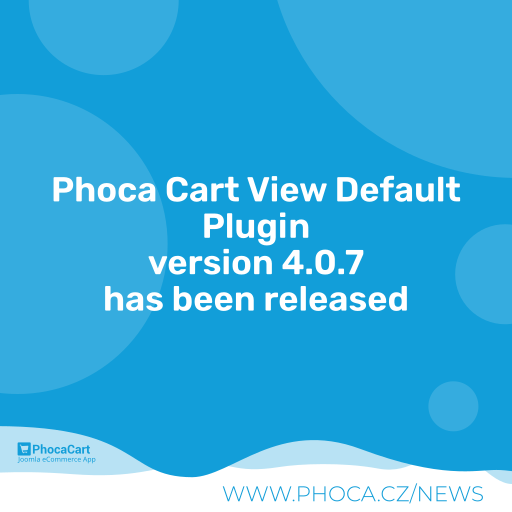
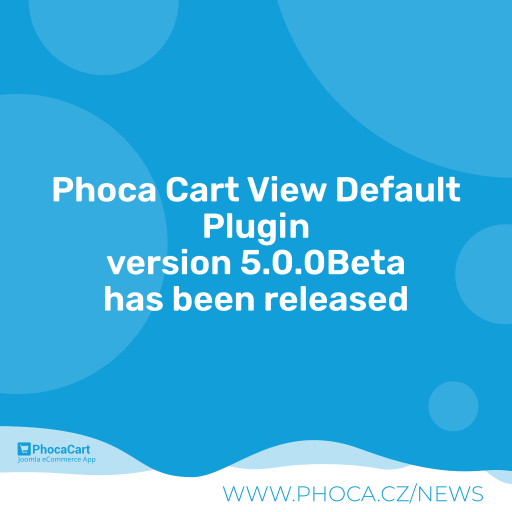
4.0.9

Changed region(s): [[0.1875, 0.4688, 0.8125, 0.5625]]

diff --git a/default.php b/default.php
@@ -55,7 +55,7 @@ class plgPCVDefault extends CMSPlugin
 		$tab 			= array();
 
 		// Example
-		/*$tab['title']	= JText::_('Title');
+		/*$tab['title']	= Text::_('Title');
 		$tab['alias']	= 'title';
 		if (isset($item[0]->features)) {
 			$tab['content']	= JHTML::_('content.prepare', $item[0]->features);

diff --git a/README.MD b/README.MD
@@ -60,7 +60,11 @@ Phoca Cart View - Default Plugin - plugin view method for Phoca Cart component. 
 
 ## Version (Joomla! 4.x)
 
-4.0.7
+4.0.9
+
+## Version (Joomla! 5.x)
+
+5.0.0Beta
 
 
 
@@ -71,3 +75,17 @@ GNU/GPL
 
 
 This project is open source project - feel free to contribute! Thank you.
+
+
+
+## Social Media
+
+- [Phoca on Facebook](https://www.facebook.com/Phoca.cz)
+
+- [Phoca on X (Twitter)](https://twitter.com/PhocaCz)
+
+- [Phoca on YouTube](https://www.youtube.com/user/phocavideos)
+
+- [Phoca on GitHub](https://github.com/PhocaCz)
+
+- [Phoca on Reddit](https://www.reddit.com/user/PhocaCz)
